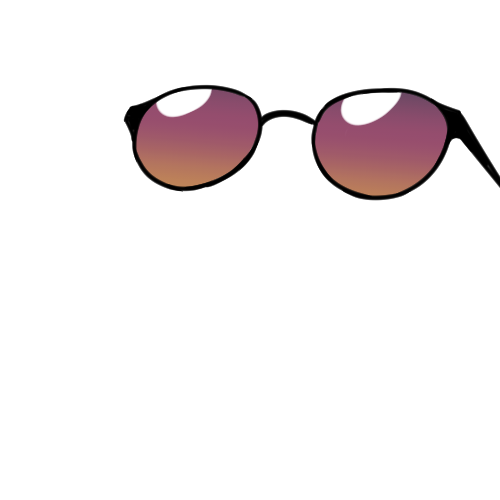
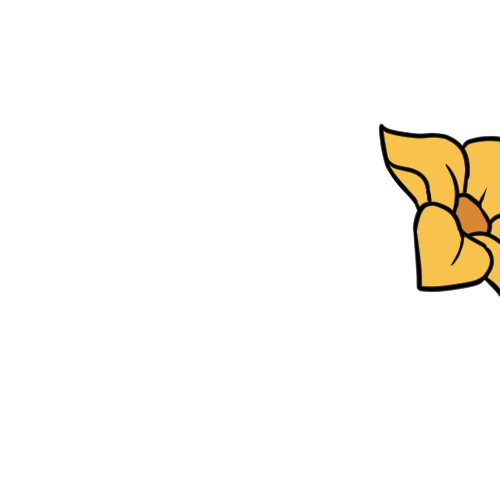
feat:selectData 업데이트 및 랜덤함수 수정

Changed region(s): [[0.24, 0.15, 1.0, 0.6]]

diff --git a/animal-app/src/component/selectData.jsx b/animal-app/src/component/selectData.jsx
@@ -65,9 +65,10 @@ module.exports.Options = [
     {accselect : 
         [ 
         {key:0, value:"악세서리x"},
+        {key:1, value:"하와이안 꽃"},
         {key:2, value:"동글이 안경"},
         {key:3, value:"모노클"},
-        {key:4, value:"하와이안 꽃"},
+        {key:4, value:"썬글라스"},
         {key:5, value:"MIC"},
         {key:6, value:"땀땀"},
         {key:7, value:"열받음"},
@@ -77,7 +78,24 @@ module.exports.Options = [
         {key:11, value:"빨간리본"},
         {key:12, value:"뿌애애앵 "},
         {key:13, value:"반짝이는 눈"},
-        {key:14, value:"버버리마스크"}]
+        {key:14, value:"짜바게티 요리사"},
+        {key:15, value:"버버리마스크"},
+        {key:16, value:"제주감귤"},
+        {key:17, value:"나뭇잎 하나"},
+        {key:18, value:"큰나뭇잎 하나"},
+        {key:19, value:"식사준비완료"},
+        {key:20, value:"사슴"},
+        {key:21, value:"유니콘"},
+        {key:22, value:"반창고"},
+        {key:23, value:"반창고2"},
+        {key:24, value:"열이나요"},
+        {key:25, value:"칼들기"},
+        {key:26, value:"악마"},
+        {key:27, value:"천사"},
+        {key:28, value:"화관"},
+        {key:29, value:"다들집중!"},
+        
+    ]
     }
     ,
     {patternselect : [

diff --git a/animal-app/src/component/SelectButton.jsx b/animal-app/src/component/SelectButton.jsx
@@ -33,7 +33,7 @@ function SelectButton({setRandomFace,setRandomColor,setRandomEyes,setRandomMouth
     setRandomColor(Math.round(Math.random() * 17))
     setRandomEyes(Math.round(Math.random() * 13))
     setRandomMouth(Math.round(Math.random() * 11))
-    setRandomAcc(Math.round(Math.random() * (15-1))+1)
+    setRandomAcc(Math.round(Math.random() * (29-1))+1)
     setRandomPattern(Math.round(Math.random() * (6-1))+1)
     setRandombackground(Math.round(Math.random() * 19))
   }
@@ -59,7 +59,7 @@ function SelectButton({setRandomFace,setRandomColor,setRandomEyes,setRandomMouth
 
   const randomAccBtn = (e) => {
     console.log("악세서리 랜덤버튼 눌렸다")
-    setRandomAcc(Math.round(Math.random() * (15-1))+1)
+    setRandomAcc(Math.round(Math.random() * (29-1))+1)
   }
 
   const randomPatternBtn = (e) => {
